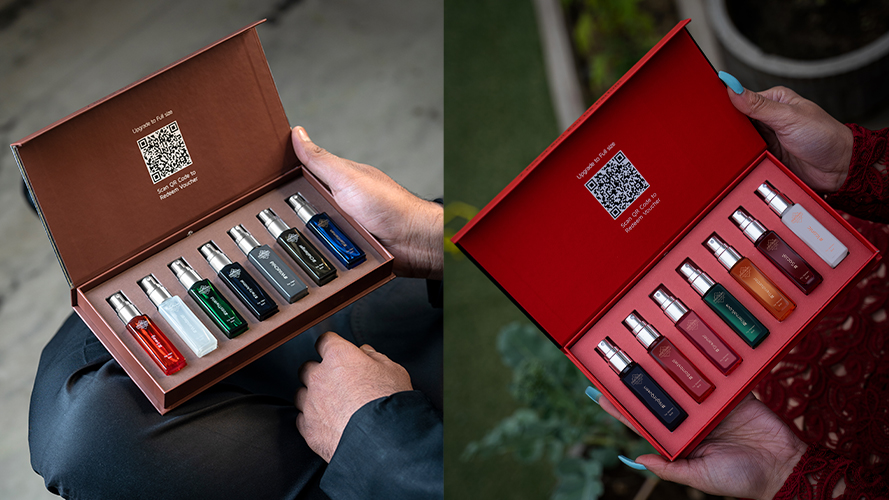
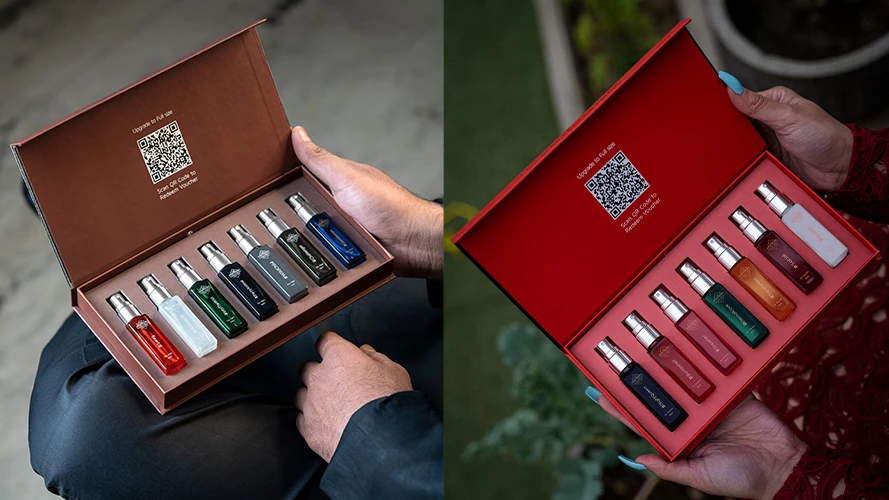
test

diff --git a/pclub/app/modules/shopnow/dashboard/dashboard.component.html b/pclub/app/modules/shopnow/dashboard/dashboard.component.html
@@ -1,7 +1,7 @@
 <div class="content mt-n3">
 	<section class="shopNowBanner">
 		<figure>
-			<img src="assets/images/shop-banner.png" alt="Carry your scent, whetever you go" class="img-fluid w-100 d-block" />
+			<img src="assets/images/shop-banner.webp" alt="Carry your scent, whetever you go" class="img-fluid w-100 d-block" />
 			<figcaption class="figure-caption">
 				Lighter <span>Carry your scent, whetever you go</span>
 			</figcaption>

diff --git a/pclub/app/components/home/home.component.html b/pclub/app/components/home/home.component.html
@@ -35,7 +35,7 @@
                     </div>
 					
 					<div class="col-12 secBanner">
-						<img src="assets/images/home/difference_perfumes_m.png" class="img-fluid mx-auto  d-block w-100" alt="Difference Perfumes">
+						<img src="assets/images/home/difference_perfumes_m.webp" class="img-fluid mx-auto  d-block w-100" alt="Difference Perfumes">
 					</div>
                 </div>
             </div>
